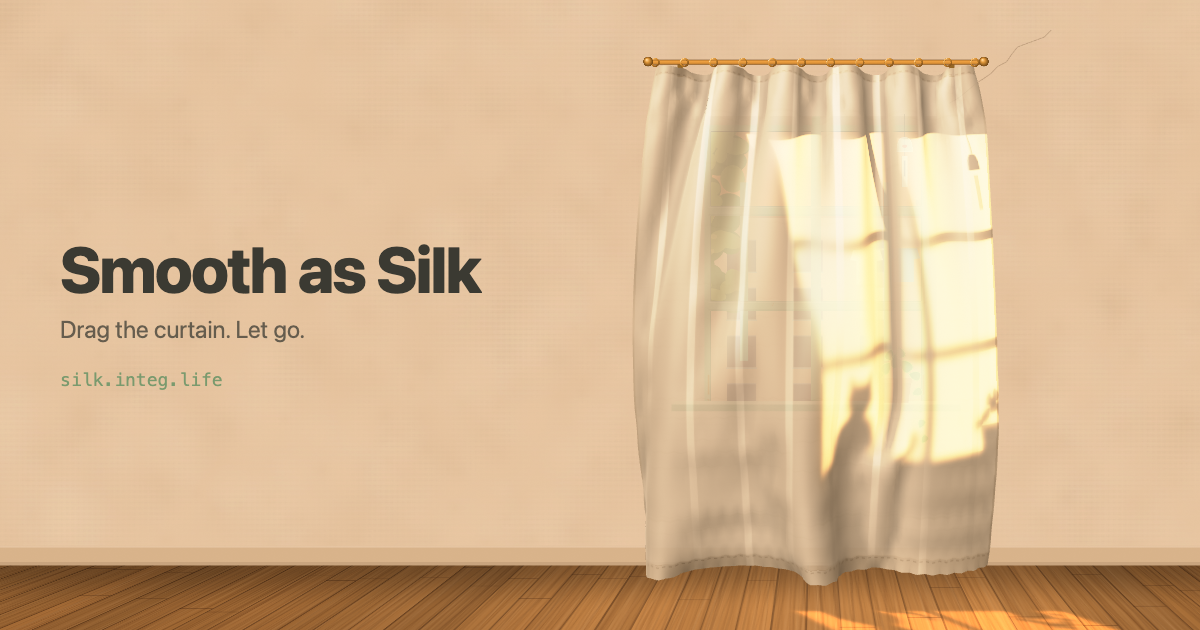
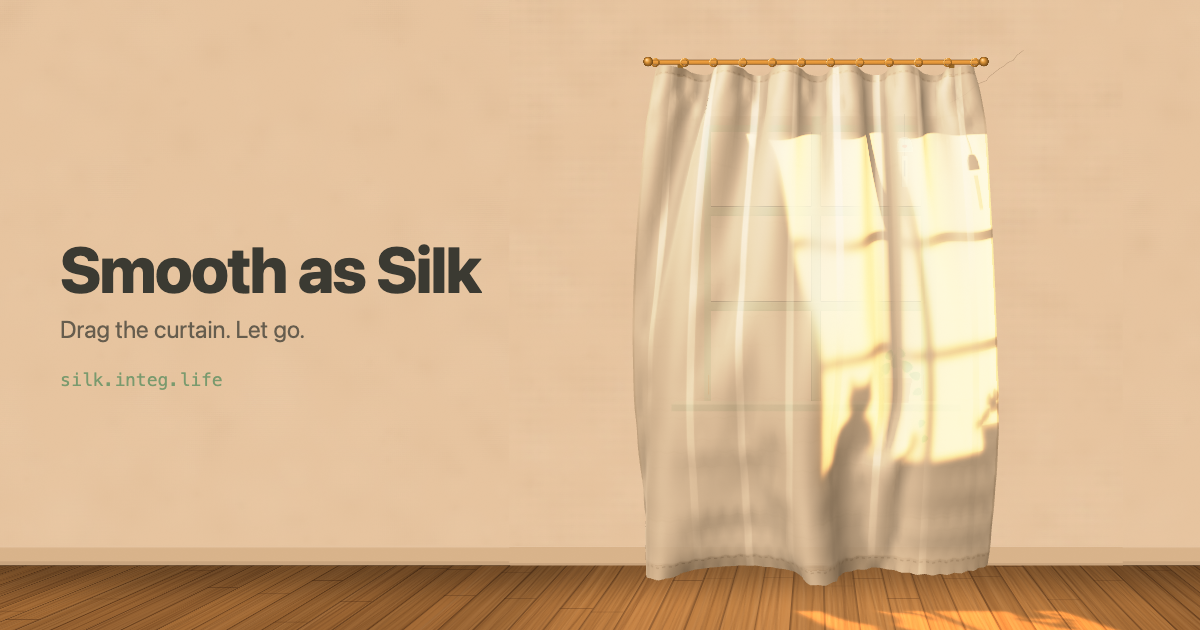
Silk: release easing only after a real pull and only on the silk's own drag (wind at full strength); Share pill card renders and copies in one go; plain side walls at low resolution (every texture under 2048 px); og at the new wall

diff --git a/src/game.ts b/src/game.ts
@@ -44,8 +44,9 @@ export interface Callbacks {
   onLine: (key: string, mode: 'line' | 'mum', vars?: Record<string, string | number>) => void
   /** the share peak: once per visit (first), then on opens (every) */
   onPeak: (kind: 'first' | 'every', n: number, data: Record<string, number>, snap: HTMLCanvasElement | null) => void
-  /** numbers for a card drawn without a peak */
-  onData: (data: () => Record<string, number>) => void
+  /** numbers and a snapshot for a card drawn without a peak (the snapshot renders and copies in one go:
+   *  a later copy of a WebGL canvas is blank) */
+  onData: (data: () => Record<string, number>, snap: () => HTMLCanvasElement | null) => void
 }
 
 export interface GameApi {
@@ -289,9 +290,10 @@ export function startGame(canvas: HTMLCanvasElement, cb: Callbacks): GameApi {
     hand.tz = hand.rz + mz
     hand.ty = Math.max(0.03, hand.ry + 0.02 + tent)
   }
-  function release() {
+  /** let go; `swing`: it was a pull, so the silk swings back (a tap, a poke, does not ease the air) */
+  function release(swing = true) {
     for (const d of hand.driven) cloth.w[d.i] = cloth.w0[d.i]
-    if (hand.on) relAt = t
+    if (hand.on && swing) relAt = t
     hand.on = false
     hand.driven = []
   }
@@ -344,8 +346,8 @@ export function startGame(canvas: HTMLCanvasElement, cb: Callbacks): GameApi {
       const nx = nrm[fi],
         ny = nrm[fi + 1],
         nz = nrm[fi + 2]
-      const rel = (Wx - vx) * nx + (Wy - vy) * ny + (0 - vz) * nz
-      const a = cAir * rel * h
+      // the wind's push at full strength; the air's drag on the silk's own motion eased after a release
+      const a = (CAIR * (Wx * nx + Wy * ny) - cAir * (vx * nx + vy * ny + vz * nz)) * h
       vx += a * nx
       vy += a * ny
       vz += a * nz
@@ -944,7 +946,10 @@ export function startGame(canvas: HTMLCanvasElement, cb: Callbacks): GameApi {
     audio.setBed(rainK > 0.3 ? 'rain' : pal().night ? 'night' : 'day', openness() < 0.1)
     audio.tickBed()
   }
-  cb.onData(peakData)
+  cb.onData(peakData, () => {
+    render()
+    return snapshot()
+  })
 
   // ---------- harness ----------
   const harness: ToyHarness = {
@@ -1189,7 +1194,7 @@ export function startGame(canvas: HTMLCanvasElement, cb: Callbacks): GameApi {
     L.pointerUpAt = t
     const pulled = Math.hypot(hand.tx - hand.rx, hand.tz - hand.rz)
     const speed = performance.now() - lastMove < 80 ? handVel : 0
-    release()
+    release(dn.moved && pulled > 0.03)
     if (!dn.moved && performance.now() - dn.t < 350) {
       if (onCat(dn.i)) poke()
       return

diff --git a/src/paint.ts b/src/paint.ts
@@ -484,30 +484,43 @@ export function paintOutside(pal: Palette): HTMLCanvasElement {
 
 // ---------- the wall with its window, and the floor ----------
 
-// wide enough for a landscape screen (desktop, the og image) as well as a phone
-export const WALL = { x0: -4.4, x1: 4.4, z0: 0, z1: 3.1 }
+export const WALL = { x0: -1.4, x1: 1.4, z0: 0, z1: 3.1 }
+/** the plain wall either side, wide enough for a landscape screen (desktop, the og image), at a lower
+ *  resolution so no texture is over 2048 px (old phones) */
+export const WALLSIDE = { x0: -4.4, x1: 4.4, z0: 0, z1: 3.1 }
 
-export function paintWall(): HTMLCanvasElement {
-  const ppm = 360
-  const W = Math.round((WALL.x1 - WALL.x0) * ppm),
-    H = Math.round((WALL.z1 - WALL.z0) * ppm)
+export function paintWall(side = false): HTMLCanvasElement {
+  const R = side ? WALLSIDE : WALL
+  const ppm = side ? 220 : 480
+  const W = Math.round((R.x1 - R.x0) * ppm),
+    H = Math.round((R.z1 - R.z0) * ppm)
   const c = canvas(W, H)
   const g = c.getContext('2d')!
   const r = rng(9)
-  const P = (x: number, z: number): [number, number] => [(x - WALL.x0) * ppm, (WALL.z1 - z) * ppm]
+  const P = (x: number, z: number): [number, number] => [(x - R.x0) * ppm, (R.z1 - z) * ppm]
   g.fillStyle = '#F3EADB'
   g.fillRect(0, 0, W, H)
   // lime wash: soft mottling
-  for (let i = 0; i < 2400; i++) {
+  for (let i = 0; i < (side ? 1400 : 900); i++) {
     const x = r() * W,
       y = r() * H,
-      rad = 20 + r() * 90
+      rad = (20 + r() * 90) * (ppm / 480)
     const gr = g.createRadialGradient(x, y, 0, x, y, rad)
     const d = r() < 0.5
     gr.addColorStop(0, d ? 'rgba(200,180,150,0.05)' : 'rgba(255,252,244,0.07)')
     gr.addColorStop(1, 'rgba(255,255,255,0)')
     g.fillStyle = gr
     g.fillRect(x - rad, y - rad, rad * 2, rad * 2)
+  }
+  if (side) {
+    const [k0x, k0y] = P(R.x0, 0.09)
+    g.fillStyle = '#E4D6BF'
+    g.fillRect(k0x, k0y, W, H - k0y)
+    g.fillStyle = 'rgba(255,255,255,0.5)'
+    g.fillRect(k0x, k0y, W, 2)
+    g.fillStyle = 'rgba(90,70,50,0.12)'
+    g.fillRect(k0x, H - 4, W, 4)
+    return c
   }
   // a soft stain under the sill
   const [sx, sy] = P(-0.1, 0.62)
@@ -611,7 +624,7 @@ export function paintWall(): HTMLCanvasElement {
   return c
 }
 
-export const FLOOR = { x0: -5.5, x1: 5.5, y0: 0, y1: 3.0 }
+export const FLOOR = { x0: -4, x1: 4, y0: 0, y1: 3.0 }
 
 export function paintFloor(): HTMLCanvasElement {
   const ppm = 240

diff --git a/src/gl.ts b/src/gl.ts
@@ -4,7 +4,7 @@
 // the curtain's planar shadow into a quarter-resolution buffer, a 5-tap blur, and dust motes.
 
 import { CAM, MASK, RAIL, SILL, viewProj, type Palette, type View } from './scene'
-import { CHIMESPRITE, FLOOR, NEIGH, OUT, SILLSPRITE, WALL, maskPixels, paintNeighbour, paintBrass, paintChime, paintFloor, paintOutside, paintSillThings, paintWall, patternPixels } from './paint'
+import { CHIMESPRITE, FLOOR, NEIGH, OUT, SILLSPRITE, WALL, WALLSIDE, maskPixels, paintNeighbour, paintBrass, paintChime, paintFloor, paintOutside, paintSillThings, paintWall, patternPixels } from './paint'
 import type { PalId } from './scene'
 
 const HEAD = `#ifdef GL_FRAGMENT_PRECISION_HIGH
@@ -326,6 +326,7 @@ export class Renderer {
     this.tex.neigh = this.texRaw(new Uint8Array([0, 0, 0, 0]), 1, 1, false, false)
     this.neighK = -1
     this.tex.wall = this.texCanvas(paintWall(), true)
+    this.tex.wallSide = this.texCanvas(paintWall(true), true)
     this.tex.floor = this.texCanvas(paintFloor(), true)
     this.tex.chime = this.texCanvas(paintChime(), false)
     this.tex.brass = this.texCanvas(paintBrass(), false)
@@ -336,6 +337,7 @@ export class Renderer {
     }
     const vquad = (x0: number, x1: number, y: number, z0: number, z1: number) => [x0, y, z0, 0, 1, x1, y, z0, 1, 1, x0, y, z1, 0, 0, x1, y, z1, 1, 0]
     wq('out', 'out', vquad(OUT.x0, OUT.x1, OUT.y, OUT.z0, OUT.z1))
+    wq('wallSide', 'wallSide', vquad(WALLSIDE.x0, WALLSIDE.x1, -0.003, WALLSIDE.z0, WALLSIDE.z1))
     wq('wall', 'wall', vquad(WALL.x0, WALL.x1, 0, WALL.z0, WALL.z1))
     wq('floor', 'floor', [FLOOR.x0, FLOOR.y0, 0, 0, 0, FLOOR.x1, FLOOR.y0, 0, 1, 0, FLOOR.x0, FLOOR.y1, 0, 0, 1, FLOOR.x1, FLOOR.y1, 0, 1, 1])
     const sz = SILL.z,
@@ -567,6 +569,7 @@ export class Renderer {
     quad('out', [expo * ot[0], expo * ot[1], expo * ot[2]])
     gl.uniform2f(q.u.uRain, 0, 0)
     if (s.neigh !== undefined && s.neigh > 0) quad('neigh', [expo * ot[0], expo * ot[1], expo * ot[2]])
+    quad('wallSide', rl(0.93 * expo))
     quad('wall', rl(0.93 * expo))
     // the floor
     {

diff --git a/src/App.tsx b/src/App.tsx
@@ -56,8 +56,9 @@ export default function App() {
         if (kind === 'first') sharePeak('silk', { snap, data })
         else peakEvery('silk', n, { snap, data })
       },
-      onData(fn) {
+      onData(fn, snap) {
         live.data = fn
+        live.snap = snap
       },
     })
     api.current = g
